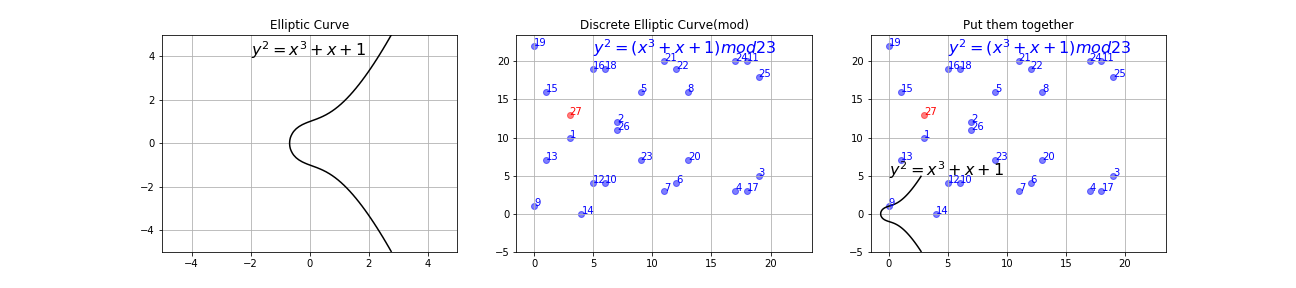
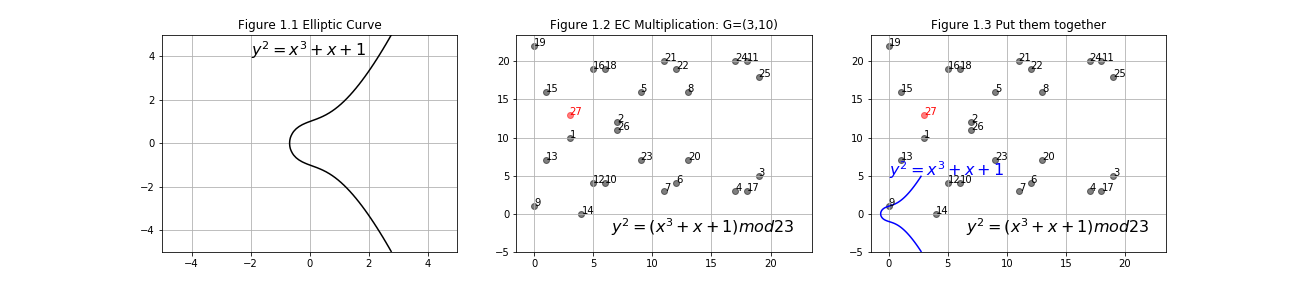
ECDSA move chapters to drafts

diff --git a/_posts/2019-01-22-ECDSA-and-Bitcoin.md b/_posts/2019-01-22-ECDSA-and-Bitcoin.md
@@ -49,7 +49,7 @@ $$\because  y^2 = x^3 + ax + b$$
 $$\therefore y_{c}^2 = (\lambda(x_{c}-x_{1}) + y_{1})^2 = x_{c}^3 + ax_{c} + b$$
 $$\therefore x_{c}^3 - (\lambda(x_{c}-x_{1}) + y_{1})^2 + ax_{c} + b = 0$$
 Let me put it another way: $$x^3 - (\lambda(x-x_{1}) + y_{1})^2 + ax + b = 0$$
-has three roots, one of them is $x_{c}$.
+This equation has three roots, one of them is $x_{c}$.
 What's the other two roots? Yes, they are: $x_{1},x_{1}$(since tangent at $G(x_{1},y_{1})$).
 Let's focus on the coefficient of $x^2$:
 $$\because x^3 - (\lambda(x-x_{1}) + y_{1})^2 + ax + b = 0$$
@@ -72,7 +72,7 @@ From initial point $G(x_{1},y_{1})$:
 $$\lambda = {\frac{3x_{1}^2+a}{2y_{1}}}$$
 $$x_{3}=\lambda^2-x_{1}-x_{1}$$
 $$y_{3}=\lambda(x_{1}-x_{3}) - y_{1}$$
-we get the result of double $D(x_{3},y_{3})=G+G$.
+$$D(x_{3},y_{3})=G+G$$
 {% endkatexmm %}
 
 ### 2. Addition(Add two points together):
@@ -123,7 +123,7 @@ From initial points $A(x_{1},y_{1})$ and $B(x_{2},y_{2})$:
 $$\lambda = {\frac{y_{2}-y_{1}}{x_{2}-x_{1}}}$$
 $$x_{3}=\lambda^2-x_{1}-x_{2}$$
 $$y_{3}=\lambda(x_{1}-x_{3}) - y_{1}$$
-we get the result of addition $D(x_{3},y_{3})=A+B$.
+$$D(x_{3},y_{3})=A+B$$
 {% endkatexmm %}
 
 
@@ -156,8 +156,8 @@ $$25*30\space mod \space 23 = (23+2)(23+7)\space mod \space 23=2*7\space mod \sp
 
 ### 3. mod: Inverses
 {% katexmm %}
-Usually, if $ A*B = 1$, $B$ is the inverse of $A$. The definition of modular inverses is similar.
-If both $A\space and\space B$ are integers and $A*B\space mod \space P=1$, $B$ is the modular inverse of $A$.
+Sometimes, we need to caculate ${\frac{1}{A}}\space mod\space P$, i.e. modular inverse. As we know, if $ A*B = 1$, $B$ is the inverse of $A$. The definition of modular inverses is similar.
+If both $A\space and\space B$ are integers and $A*B\space mod \space P=1$, $B$ is the modular inverse of $A$. Or state in an other way: ${\frac{1}{A}}\space mod\space P=B$.
 
 #### 3.1 One Improtant Property
 __Note: If $A$ does not coprime to $P$, i.e. if $A$ shares at least one prime factor with $P$, $A$ has no modular inverse (mod $P$).__ This is why secp256k1 chooses a prime $P$, which we will discuss later.
@@ -182,7 +182,7 @@ If $A$ coprimes to $P$, how to find it's modular inverse $B$? We can use Extend 
 
 * An example ($A=7,P=23$):
 
-|          |    |           |  k |  R  |  $\times$23     |    $\times$7       |    t   |
+|          |    |           |  n |  R  |  $\times$23     |    $\times$7       |    t   |
 |:--------:|:--:|:---------:|:--:|:--:|:-----------:|:--------------:|:------:|
 |          |    | 23=1*23+0 |    | 23 |$\color{green} 1$ |$\color{green} 0$ |    0   |
 |          |    | 7=0+1*7   |    |  7 |$\color{orange} 0$|$\color{orange} 1$|    1   |
@@ -196,13 +196,13 @@ $$\therefore B=10$$
 
 * General cases(it's a loop until __R=1__ therefore $B=a_{t}$):
 
-|           |  k |  R  |  $\times$P     |    $\times$A      |    t   |
+|           |  n |  R  |  $\times$P     |    $\times$A      |    t   |
 |:---------:|:--:|:--:|:-----------:|:--------------:|:------:|
 | $R_{0}$=1*$P$+0 |    | $R_{0}=P$ |$\color{green}p_{0}=1$ |$\color{green}a_{0}=0$ |    0   |
 | $R_{1}$=0+1*$A$ |    | $R_{1}=A$ |$\color{orange}p_{1}=0$|$\color{orange}a_{1}=1$|    1   |
-| $R_{2}=R_{0}$- $\color{magenta}k_{2}$*$R_{1}$  |  $\color{magenta}k_{2}$ | $R_{2}$  | $\color{green} p_{0}$- $\color{magenta}k_{2}$* $\color{orange}p_{1}$= $\color{blue}p_{2}$ |  $\color{green}a_{0}$- $\color{magenta}k_{2}$* $\color{orange}a_{1}$= $\color{blue}a_{2}$ |    2   |
+| $R_{2}=R_{0}$- $\color{magenta}n_{2}$*$R_{1}$  |  $\color{magenta}n_{2}$ | $R_{2}$  | $\color{green} p_{0}$- $\color{magenta}n_{2}$* $\color{orange}p_{1}$= $\color{blue}p_{2}$ |  $\color{green}a_{0}$- $\color{magenta}n_{2}$* $\color{orange}a_{1}$= $\color{blue}a_{2}$ |    2   |
 |...|...|...|...|...|...|
-| __1__=$R_{t-2}$- $\color{red}k_{t}$*$R_{t-1}$   |  $\color{red}k_{t}$ |  __1__ |  $\color{orange}p_{t-2}$- $\color{red}k_{t}$* $\color{blue}p_{t-1}$=$p_{t}$ |  $\color{orange}a_{t-2}$- $\color{red}k_{t}$*( $\color{blue}a_{t-1}$)=$a_{t}$ |    t   |
+| __1__=$R_{t-2}$- $\color{red}n_{t}$*$R_{t-1}$   |  $\color{red}n_{t}$ |  __1__ |  $\color{orange}p_{t-2}$- $\color{red}n_{t}$* $\color{blue}p_{t-1}$=$p_{t}$ |  $\color{orange}a_{t-2}$- $\color{red}n_{t}$*( $\color{blue}a_{t-1}$)=$a_{t}$ |    t   |
 
 {% endkatexmm %}
 
@@ -213,22 +213,112 @@ def modular_inverse(A,P):
     p1, a1 = 0, 1
     R0, R1 = P, A%P
     while R1 > 1:
-        k, R2 = divmod(R0, R1)
-        p2 = p0 - k*p1 ; a2 = a0 - k*a1
+        n, R2 = divmod(R0, R1)
+        p2 = p0 - n*p1 ; a2 = a0 - n*a1
         p0 = p1; a0 = a1; p1 = p2; a1 = a2
         R0 = R1; R1 = R2
-    return a2
+    return a1 % P
 {% endhighlight %}
-
 
 Reference:
 [Modular inverses][modinverse], [Extend Euclidean Algorithm][EEA], [Elliptic Curve Cryptography][ECC], [Python Code][py2.7]
 
+### 4. mod: Elliptic Curve
+Recall: {% katexmm %} We need to caculate $\lambda$, $x_{3}$ and $y_{3}$. This time let's put $mod P$ at the end of $x_{3}$ and $y_{3}${% endkatexmm %}  
+#### 4.1 Double a point(Add a point to itself):
+{% katexmm %}
+From initial point $G(x_{1},y_{1})$:
+$$\lambda = {\frac{3x_{1}^2+a}{2y_{1}}}$$
+$$x_{3}=\lambda^2-x_{1}-x_{1}\color{blue}\space mod\space P$$
+$$y_{3}=\lambda(x_{1}-x_{3}) - y_{1}\color{blue}\space mod\space P$$
+$$D(x_{3},y_{3})=G+G$$
+Based on the properties of mod and modular inverse,
+$$x_{3}=\lambda^2{\color{blue}\space mod\space P}-x_{1}{\color{blue}\space mod\space P}-x_{1}\color{blue}\space mod\space P$$
+$$x_{3}=\lambda{\color{blue}\space mod\space P} * \lambda{\color{blue}\space mod\space P}-x_{1}{\color{blue}\space mod\space P}-x_{1}\color{blue}\space mod\space P$$
+$$x_{3}={\frac{3x_{1}^2+a}{2y_{1}}}{\color{blue}\space mod\space P} * {\frac{3x_{1}^2+a}{2y_{1}}}{\color{blue}\space mod\space P}-x_{1}{\color{blue}\space mod\space P}-x_{1}\color{blue}\space mod\space P$$
+In practice, we let $$\lambda = {\frac{3x_{1}^2+a}{2y_{1}}}\color{blue}\space mod\space P$$
+Therefore, we can caculate $x_{3}$ and $y_{3}$ directly:
+$$x_{3}=\lambda^2-x_{1}-x_{1}\color{blue}\space mod\space P$$
+$$y_{3}=\lambda(x_{1}-x_{3}) - y_{1}\color{blue}\space mod\space P$$
+One more thing,
+$$\lambda = {\frac{3x_{1}^2+a}{2y_{1}}}{\color{blue}\space mod\space P} = (3x_{1}^2+a){\color{blue}\space mod\space P} * {\frac{1}{2y_{1}}}\color{blue}\space mod\space P$$
+And $${\frac{1}{2y_{1}}}{\color{blue}\space mod\space P}= inverse\space module\space of\space 2y_{1}$$
+{% endkatexmm %}
+
+* Python code:
+{% highlight javascript %}
+a = 1; b = 1
+P = 23
+x1 = 3; y1 = 10
+G = (x1,y1)
+
+def ECdouble(G):
+    lambda_double = ((3*G[0]** 2 + a) * modular_inverse(2*G[1],P)) % P
+    x3 = (lambda_double * lambda_double - G[0] - G[0]) % P
+    y3 = (lambda_double * (G[0]-x3)-G[1]) % P
+    return (x3,y3)
+
+{% endhighlight %}
+
+#### 4.2 Addition:
+{% katexmm %}
+Similarly, from initial points $A(x_{1},y_{1})$ and $B(x_{2},y_{2})$:
+$$\lambda = {\frac{y_{2}-y_{1}}{x_{2}-x_{1}}}\color{blue}\space mod\space P$$
+$$x_{3}=\lambda^2-x_{1}-x_{2}\color{blue} \space mod\space P$$
+$$y_{3}=\lambda(x_{1}-x_{3}) - y_{1} \color{blue} \space mod\space P$$
+$$D(x_{3},y_{3})=A+B$$
+Again, $$\lambda = {\frac{y_{2}-y_{1}}{x_{2}-x_{1}}}{\color{blue}\space mod\space P} = (y_{2}-y_{1}){\color{blue}\space mod\space P} * {\frac{1}{x_{2}-x_{1}}}\color{blue}\space mod\space P$$
+And
+$${\frac{1}{x_{2}-x_{1}}}{\color{blue}\space mod\space P}= inverse\space module\space of\space x_{2}-x_{1}$$.
+{% endkatexmm %}
+
+* Python code:
+{% highlight javascript %}
+...
+A = (x1,y1); B = (x2,y2)
+
+def ECaddition(A,B):
+    lambda_addition = ((B[1]-A[1]) * modular_inverse(B[0]-A[0], P)) % P
+    x3 = (lambda_addition * lambda_addition - A[0] - B[0]) % P
+    y3 = (lambda_addition * (A[0] - x3) - A[1]) % P
+    return (x3,y3)
+{% endhighlight %}
+
+#### 4.3 Multiplication:
+{% katexmm %}
+Multiplication is a little bit tricky. From a initial point $G(x_{1},y_{1})$:
+$$2*G = G+G$$
+$$3*G = 2G+G$$
+$$4*G = 2G+2G$$
+$$...$$
+$$2^{m_{0}+m_{1}+...+m_{n}} * G = 2^{m_{0}}G+2^{m_{1}}G+...+2^{m_{n}}G$$
+$$(2^{m_{0}+m_{1}+...+m_{n}}+1) * G = 2^{m_{0}}G+2^{m_{1}}G+...+2^{m_{n}}G+G$$
+$$...$$
+{% endkatexmm %}
+
+* Python code:
+{% highlight javascript %}
+def ECMultiplication(G,n):
+    n_binary = str(bin(n))[2:]
+    D = G
+    for i in range (1, len(n_binary)):
+        D = ECdouble(D)
+        if n_binary[i] == "1":
+            D = ECaddition(D, G)
+    return (D)
+{% endhighlight %}
+
+* An example: {% katexmm %}$a=1,b=1,P=23,x_{1}=3,y_{1}=10${% endkatexmm %}
 ![elliptic curve and 27 points](/Blog/assets/img/0.png)
+
+
+
+
+
 ![27 points and lines](/Blog/assets/img/27.png)![27 points gif](/Blog/assets/img/EC.gif)
 
-## Reference:  
-
+Reference:  
+[Elliptic Curve Cryptography][ECC], [Python Code][py2.7]
 
 
 

diff --git a/_drafts/2019-01-24-ECDSA-and-Bitcoin-I.md b/_drafts/2019-01-24-ECDSA-and-Bitcoin-I.md
@@ -80,7 +80,7 @@ $$\because  y^2 = x^3 + ax + b$$
 $$\therefore y_{c}^2 = (\lambda(x_{c}-x_{1}) + y_{1})^2 = x_{c}^3 + ax_{c} + b$$
 $$\therefore x_{c}^3 - (\lambda(x_{c}-x_{1}) + y_{1})^2 + ax_{c} + b = 0$$
 Let me put it another way: $$x^3 - (\lambda(x-x_{1}) + y_{1})^2 + ax + b = 0$$
-has three roots, one of them is $x_{c}$.
+This equation has three roots, one of them is $x_{c}$.
 What's the other two roots? Yes, they are: $x_{1},x_{2}$.
 Let's focus on the coefficient of $x^2$:
 $$\because x^3 - (\lambda(x-x_{1}) + y_{1})^2 + ax + b = 0$$
